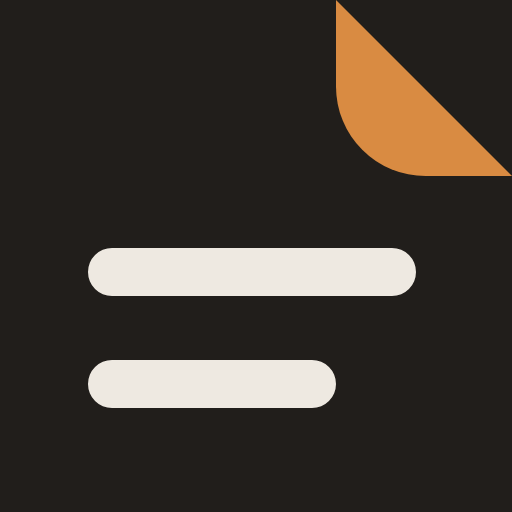
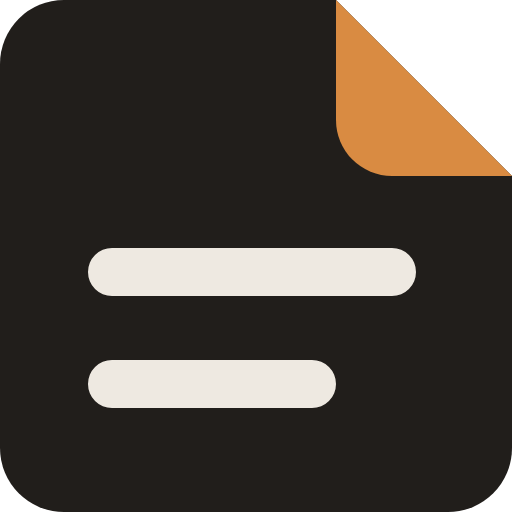
PWA対応

diff --git a/AGENTS.md b/AGENTS.md
@@ -73,6 +73,7 @@
 - 起動・検証コマンド：正本は [package.json](package.json) のscripts。`pnpm dev`、`pnpm dev:mcp`、`pnpm typecheck`、`pnpm lint`、`pnpm test`、`pnpm test:browser`、`pnpm build`、`pnpm format:check`。pnpmの版はpackageManagerとロックファイルに従う。
 - 操作性の優先順位：使い慣れた人が書き込みやすいことを最優先し、初回説明や管理UIを本文の前に増やさない。
 - 対象環境：iPhone SafariとWindows Chrome。AIクライアントはChatGPTを優先する。Playwright WebKitの結果をiPhone実機検証と同一視しない。
+- PWA：既存のWeb App Manifestでインストールと独立したアプリ表示に対応する。オフライン起動は対象外とし、Service Workerや専用のインストール案内UIは追加しない。
 - 公開先・運用上の制約：`memo.anipopina.com` に公開済み。本体は東京、CloudFront用証明書はus-east-1。顧客管理KMS鍵や常時稼働サーバーを追加せず、Lambda環境変数の鍵＋AES-256-GCMを使用。公開・AWSリソース作成・コミットは明示的な依頼なしに行わない。
 - AI連携：既存のメモ単位MCPに加え、OAuth（Authorization Code＋PKCE S256、DCR）でリスト内のメモにアクセスするアカウント用MCPを提供する。Passkey認証を再利用し、既存テーブルの期限付きレコードで認可・失効を管理する。新規の認証サービスや検索基盤は追加しない。詳細は [設計文書](docs/design.md#oauthによるアカウント用mcp)。
 - 競合方針：手動マージ画面を設けず、差分を自動統合する。重なった範囲は保存する側を優先し、一部の変更が失われ得ることをユーザーは許容している。詳しい規則は設計文書を参照する。

diff --git a/assets/branding/README.md b/assets/branding/README.md
@@ -9,12 +9,16 @@
 - 配信用は [`apps/web/public/ogp.png`](../../apps/web/public/ogp.png)。原稿を1200×630で
   描画した不透明なPNGです。右上には裏面をオレンジで塗り、角を少し丸めた折り返しを配置しています。
   原稿を変更した場合は、同じ寸法でPNGも再出力してください。
-- ホーム画面用のPNG（`apple-touch-icon.png` とmanifest内のアイコン）は、
-  専用原稿 [`icon.svg`](icon.svg) から各サイズに描画します。折り返し左下の丸みは
+- Apple Touch Icon（`apple-touch-icon.png`）は、
+  専用原稿 [`icon.svg`](icon.svg) から描画します。折り返し左下の丸みは
   faviconの約1.6倍です。背景は不透明に保ち、外周の角丸は画像に焼き込まず
   OS側のマスク処理に任せます。
+- manifest内のインストール用PNGはfaviconのSVGから透過付きで描画し、
+  右上のカットと残る3つの角丸を保ちます。`purpose: any` とし、
+  OSによる切り抜きを前提とする `maskable` には指定しません。
+  最終的な背景や輪郭にはOS側の処理が適用される場合があります。
 - `favicon.ico` はSVG faviconと同じメモの形を使っています。
-  manifestはブラウザ表示を維持し、起動先はメモの秘密URLを含まないサイトルートです。
+  manifestは独立したアプリ表示とし、起動先はメモの秘密URLを含まないサイトルートです。
 
 設定の参考：[AppleのWeb Clipアイコン](https://developer.apple.com/library/archive/documentation/AppleApplications/Reference/SafariWebContent/ConfiguringWebApplications/ConfiguringWebApplications.html)、
 [manifestのアイコン](https://developer.mozilla.org/en-US/docs/Web/Progressive_web_apps/Manifest/Reference/icons)。

diff --git a/docs/design.md b/docs/design.md
@@ -136,6 +136,13 @@ IndexedDBにタブ別下書きと基準バージョンを保存する。
 通信が切れても開いている画面で編集を続け、再接続時に条件付き保存・統合を行う。
 オフラインでの新規起動は初期版の保証に含めない。
 
+PWAはブラウザ標準のインストール導線と独立したアプリ表示への対応に留める。
+既存のWeb App Manifestを利用し、起動先は既存のメモ選択処理に従う。
+インストール用アイコンはfaviconと同じ輪郭の透過PNGとし、Apple Touch Iconは
+OS側のマスクに合わせた不透明版を使う。原稿と再生成方法は
+[ブランド画像](../assets/branding/README.md) を参照する。
+オフライン起動用のService Workerや、専用のインストール案内UIは追加しない。
+
 ## 最小UI
 
 日本語UIを初期対象とする。iPhone SafariとWindows Chromeを優先する。
